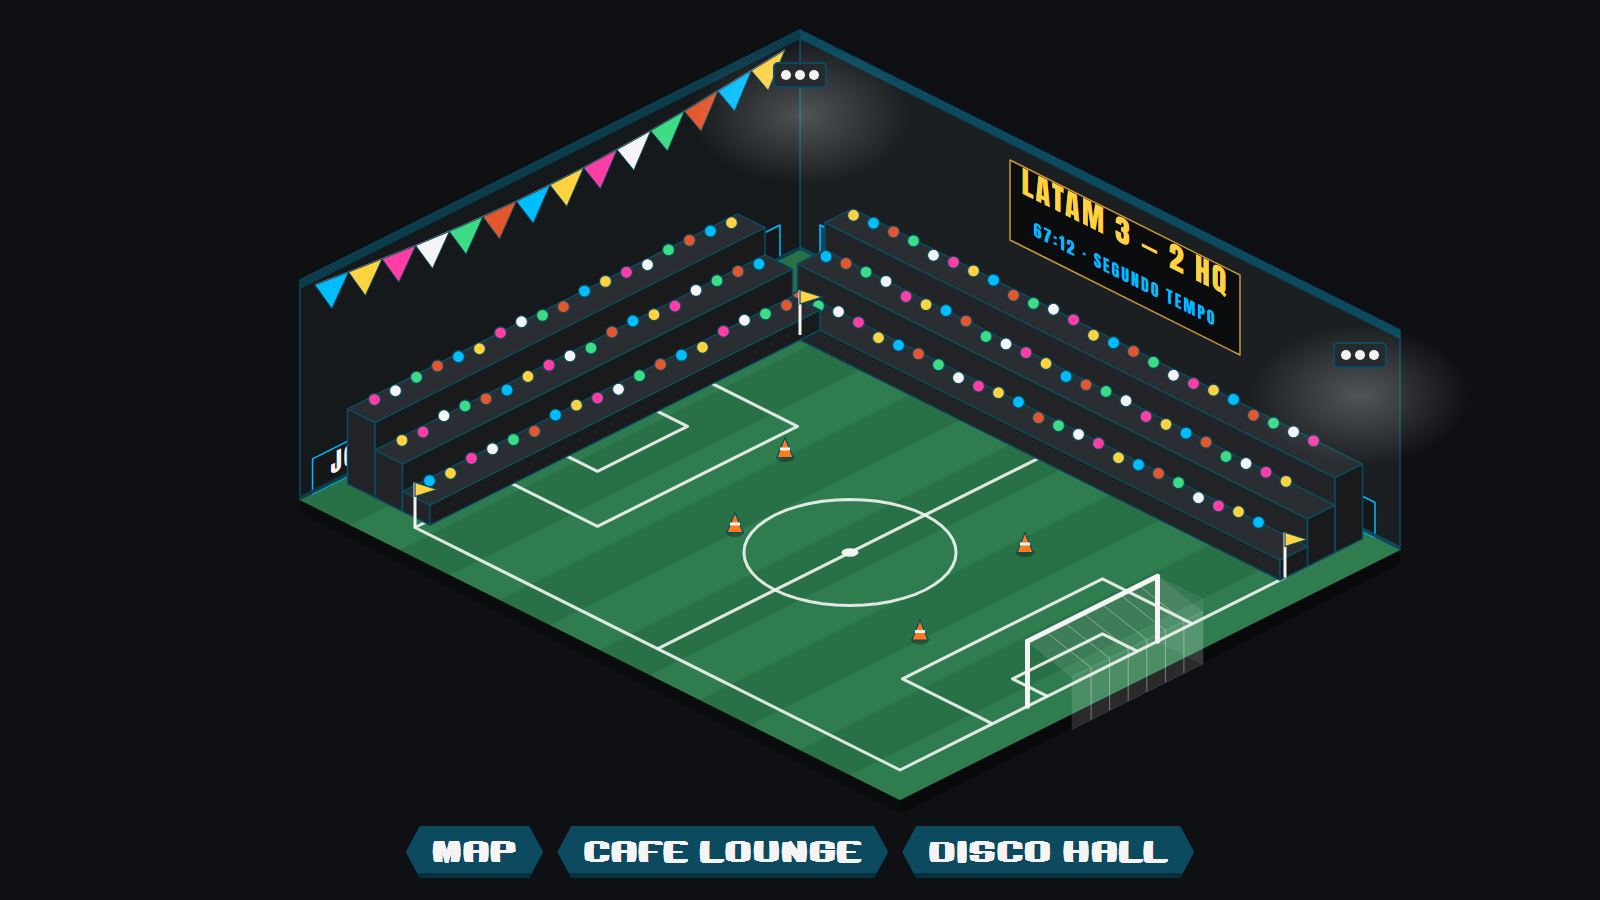
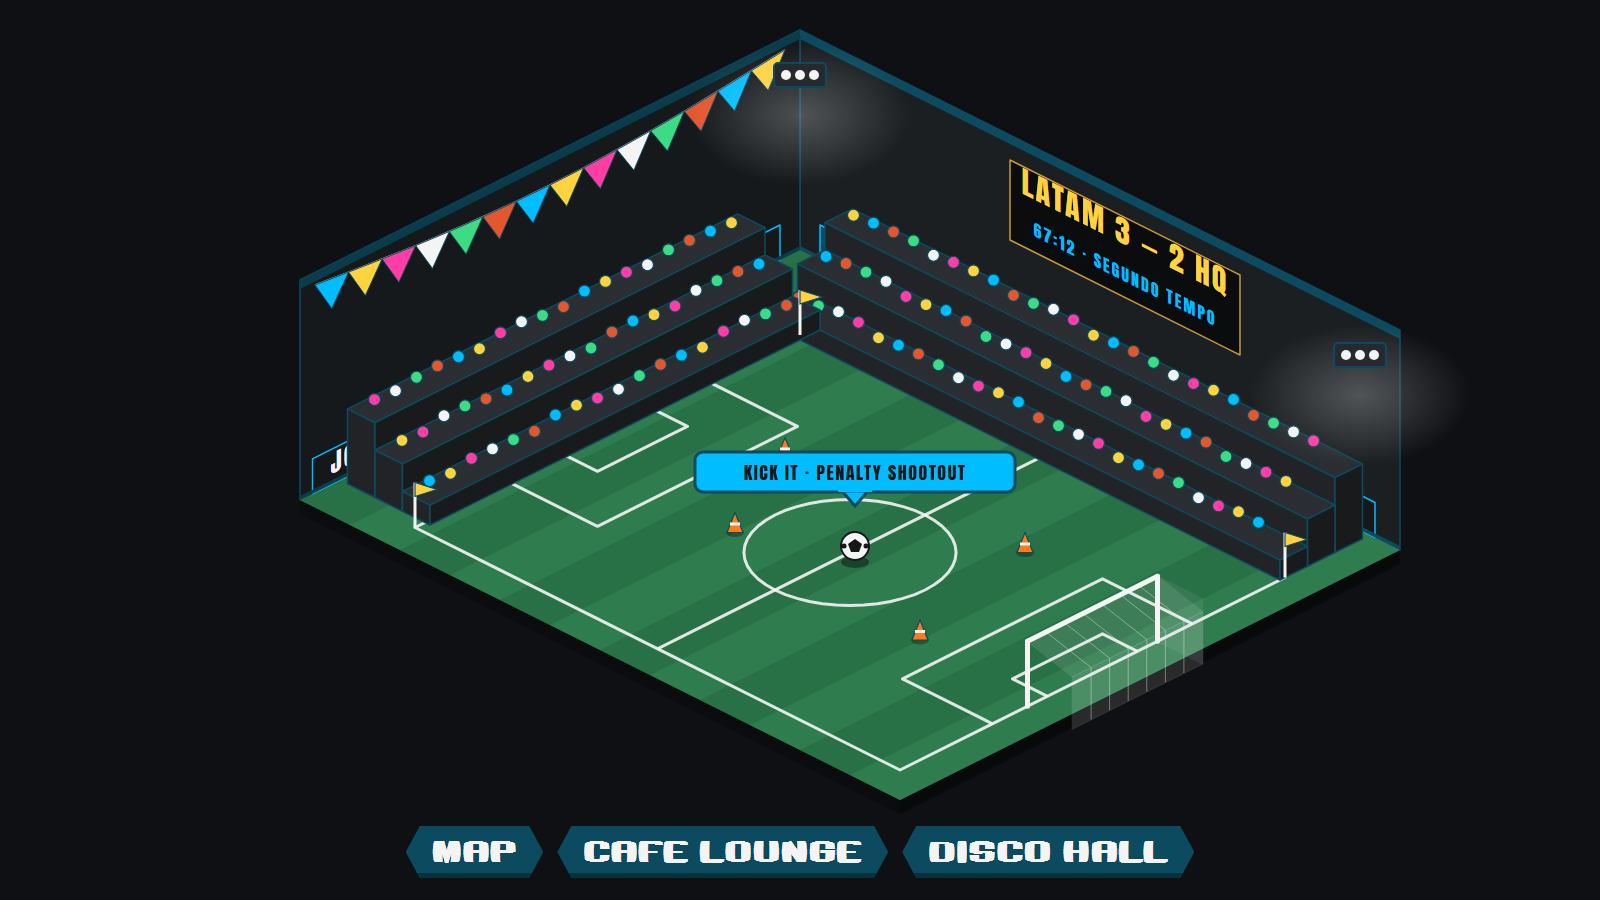
fix: LATAM Futebol Field: the soccer ball is back on the pitch
Stop hiding the Penalty Kick minigame's bouncing ball, its glow ring and
the "KICK IT - PENALTY SHOOTOUT" callout in scripts/export-room-art.ts's
latam-futebol-field export rules, so they bake into the background at
their rest frame like the Disco Hall's "SPIN IT - CARNAVAL PARADE" sign.
Re-exported the Room's background PNG and blocked the ball's own floor
tile (6,5) in the walkable mask, following this file's floor-contact-point
convention.

Changed region(s): [[0.4062, 0.4978, 0.6562, 0.56], [0.5, 0.5911, 0.5625, 0.6222]]

diff --git a/scripts/export-room-art.ts b/scripts/export-room-art.ts
@@ -1197,24 +1197,25 @@ const LIVE_ELEMENT_RULES: Record<RoomId, HideRule[]> = {
   // unique selectors for texture that is neither "people" nor "the ball" (a
   // reviewable judgment call; the four orange training cones are likewise
   // static, un-animated floor decoration and were never a candidate).
+  //
+  // The Penalty Kick minigame's bouncing ball (`a[href="Minigame Penalty
+  // Kick.dc.html"]`, with its pulsing glow ring and "KICK IT · PENALTY
+  // SHOOTOUT" callout) and its own ground shadow
+  // (`ellipse[cx="855"][cy="562"]`) are left un-hidden too (owner request,
+  // 2026-10-09: the ball was missing from the exported art). `freezeSmil
+  // Animations` resets both the bounce (`translate` 0/-34/0) and the shadow's
+  // pulsing `rx` to their 0% rest frame before the screenshot, so the ball
+  // bakes in sitting on the pitch at (855,546) rather than mid-bounce --
+  // exactly the Disco Hall's own precedent for keeping its "SPIN IT ·
+  // CARNAVAL PARADE" sign baked into the art instead of hidden. The minigame
+  // itself is not built yet (see `src/game/rooms/definitions/
+  // latam-futebol-field.ts`'s own comment, and tickets #218/#219/#220).
   'latam-futebol-field': [
     {
       kind: 'selector',
       selectors: ['#latam-people'],
       comment:
         "The six LATAM Futebol Field JGers (Thalles Stakonski, Bruno Amado, Washington Marino, Chrystian Rissoli, Paulo Ponciano, Gustavo Barska), each a wandering figure with its own nested ground shadow and nameplate -- hidden as one group, like Remote Lounge's `#figs`.",
-    },
-    {
-      kind: 'selector',
-      selectors: ['a[href="Minigame Penalty Kick.dc.html"]'],
-      comment:
-        'The Penalty Kick minigame\'s bouncing ball icon, pulsing glow ring and "KICK IT · PENALTY SHOOTOUT" callout label -- a live link, not floor art. The minigame itself is not built yet (see `src/game/rooms/definitions/latam-futebol-field.ts`\'s own comment).',
-    },
-    {
-      kind: 'selector',
-      selectors: ['ellipse[cx="855"][cy="562"]'],
-      comment:
-        'The bouncing ball\'s own ground shadow, pulsing in sync with it (`<animate attributeName="rx">`), drawn as a sibling just outside the `<a>` link above rather than nested inside it.',
     },
   ],
 };

diff --git a/src/game/rooms/definitions/latam-futebol-field.ts b/src/game/rooms/definitions/latam-futebol-field.ts
@@ -18,13 +18,27 @@ import { createStandardRoomGrid } from '../grid';
 // Room's walls (the row=0 and col=0 faces), not floor fixtures, so they
 // block nothing; the four training cones and three corner-kick flags are
 // flat floor decoration well under a quarter of their tile.
+//
+// The Penalty Kick minigame's bouncing ball (owner request, 2026-10-09: now
+// baked into the exported art, see `scripts/export-room-art.ts`'s own
+// comment) rests at design (855,546) -- `screenToTile` inverts that to tile
+// (6,5) -- so that tile is blocked too, the same "floor-contact point"
+// convention `latam-disco-hall.ts` uses for its speaker stacks. None of the
+// six JGers' own `npcSlots` tiles land on (6,5) (closest are Chrystian's
+// (4,3) and Washington's (6,2)), so no NPC rests on the ball; each one's
+// scripted ping-pong walk (`src/npcs/motions/latam-futebol-field.ts`) is a
+// continuous path across the open pitch rather than a tile hop, and three of
+// the six (Bruno, Washington, Chrystian) pass within the ball's own glow-ring
+// radius at one point in their loop -- a transient crossing, not a resting
+// overlap, and left as-is (reviewable; narrowing would mean hand-tuning
+// paths ported directly from the design's own SMIL).
 const WALKABLE: readonly (readonly boolean[])[] = [
   [true, true, true, true, true, true, true, true, true, true, true, true],
   [true, true, true, true, true, true, true, true, true, true, true, true],
   [true, true, true, true, true, true, false, true, true, true, true, true],
   [true, true, true, false, false, true, true, true, true, true, true, true],
   [false, false, true, true, true, true, true, true, true, false, false, false],
-  [false, false, true, true, true, true, true, true, true, true, false, false],
+  [false, false, true, true, true, true, false, true, true, true, false, false],
   [false, false, true, true, true, true, true, true, true, true, false, false],
   [true, true, true, false, true, true, true, true, true, true, true, true],
   [true, true, true, true, true, true, true, true, true, false, true, true],
